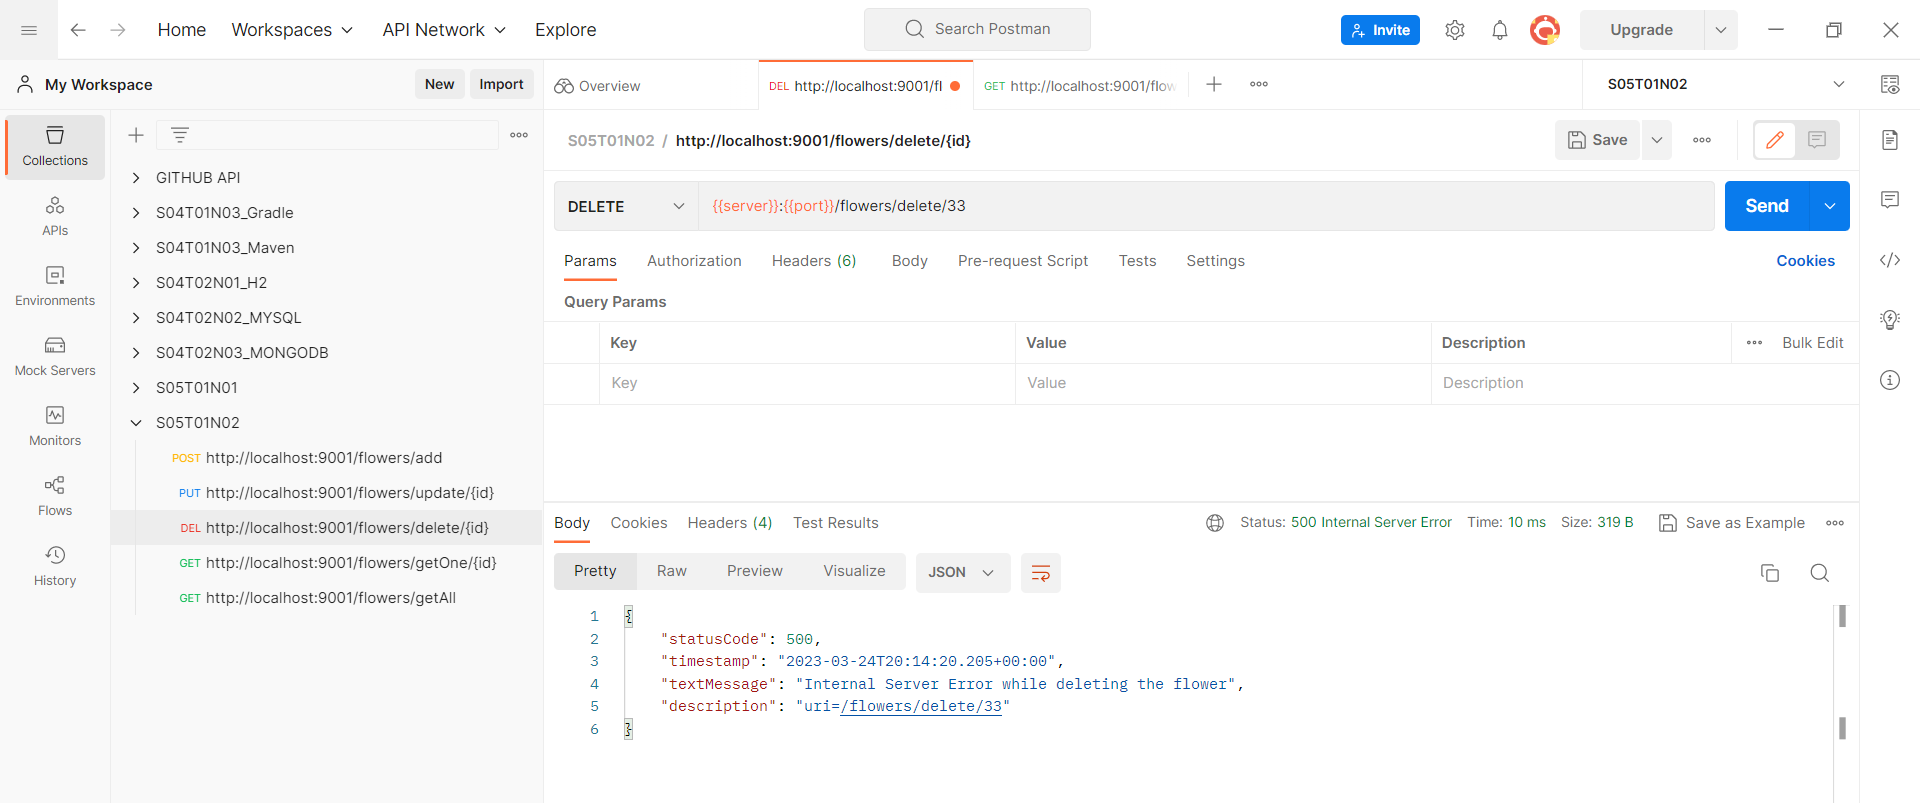
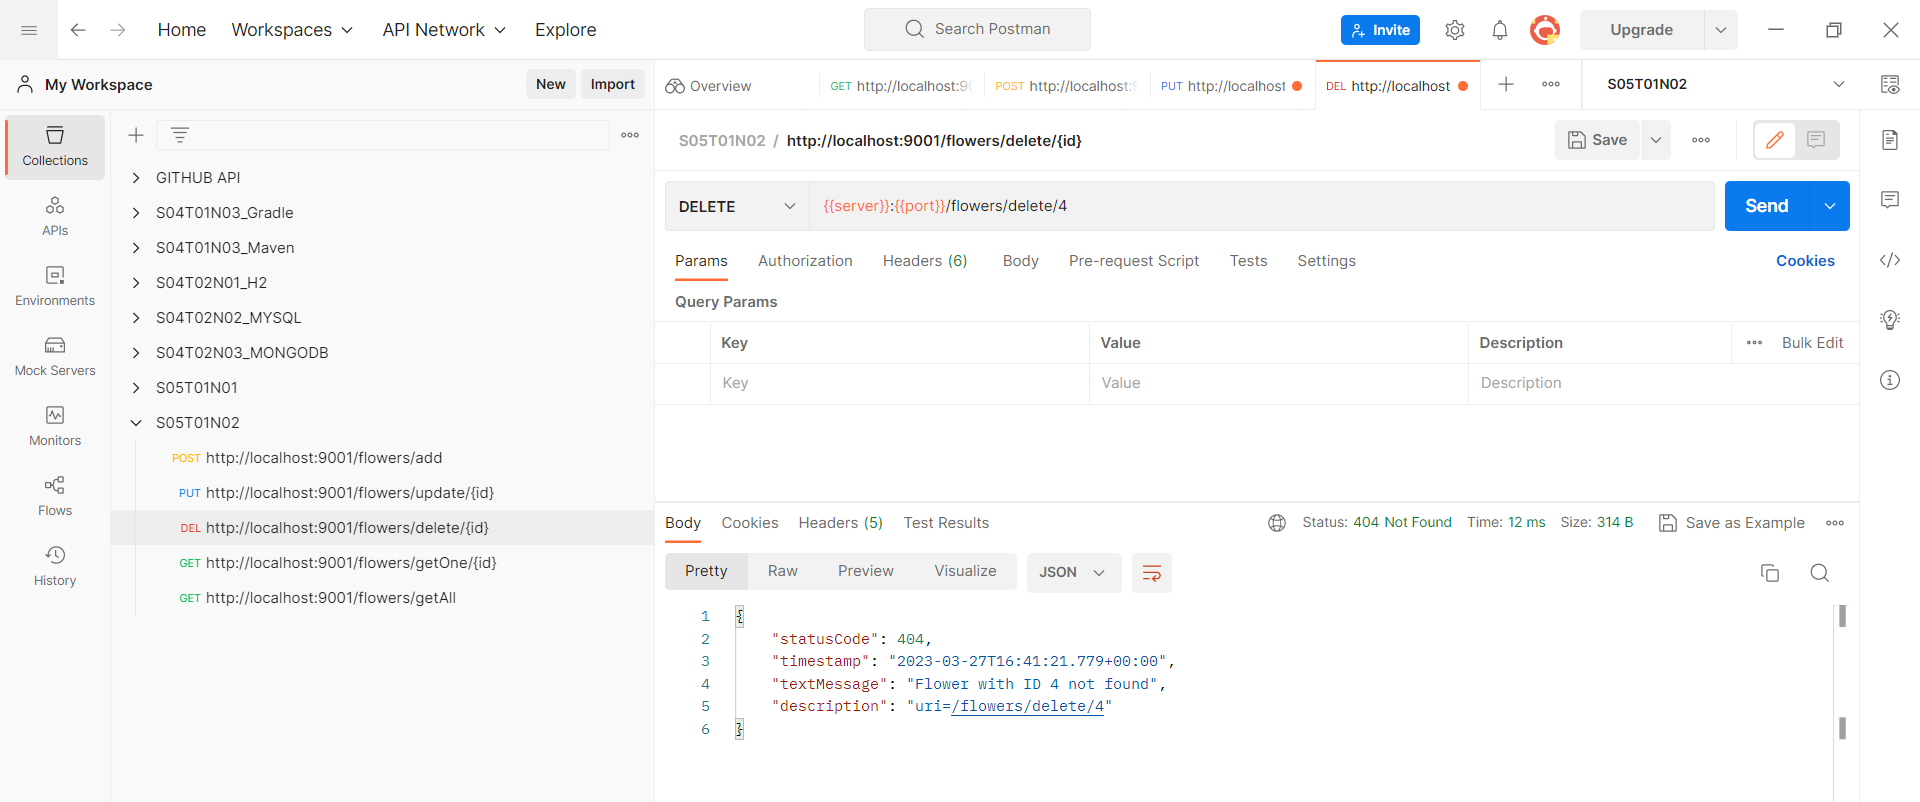
correccio excepcions capturades

diff --git a/S05T01N02LizMontse/src/main/java/cat/itacademy/barcelonactiva/liz/montse/s05/t01/n02/controllers/FlowerController.java b/S05T01N02LizMontse/src/main/java/cat/itacademy/barcelonactiva/liz/montse/s05/t01/n02/controllers/FlowerController.java
@@ -2,6 +2,7 @@ package cat.itacademy.barcelonactiva.liz.montse.s05.t01.n02.controllers;
 
 import cat.itacademy.barcelonactiva.liz.montse.s05.t01.n02.model.dto.FlowerDTO;
 import cat.itacademy.barcelonactiva.liz.montse.s05.t01.n02.model.dto.Message;
+import cat.itacademy.barcelonactiva.liz.montse.s05.t01.n02.model.exception.FlowerNotFoundException;
 import cat.itacademy.barcelonactiva.liz.montse.s05.t01.n02.model.service.IFlowerService;
 import io.swagger.v3.oas.annotations.Operation;
 import io.swagger.v3.oas.annotations.Parameter;
@@ -46,7 +47,7 @@ public class FlowerController {
     @Operation(summary = "Create a new flower", description = "Adds a new flower into the database")
     @ApiResponses(value = {
             @ApiResponse(responseCode = "201", description = "Flower created correctly", content = {@Content(mediaType = "application/json",
-                    schema = @Schema(implementation = FlowerDTO.class))}),
+                    schema = @Schema(implementation = Message.class))}),
             @ApiResponse(responseCode = "406", description = "Flower values not valid", content = {@Content(mediaType = "application/json",
                     schema = @Schema(implementation = Message.class))}),
             @ApiResponse(responseCode = "500", description = "Internal Server Error while creating the flower", content = {@Content(mediaType = "application/json",
@@ -66,7 +67,7 @@ public class FlowerController {
     @Operation(summary = "Update a flower", description = "Updates an existing flower in the database")
     @ApiResponses(value = {
             @ApiResponse(responseCode = "200", description = "Flower updated correctly", content = {@Content(mediaType = "application/json",
-                    schema = @Schema(implementation = FlowerDTO.class))}),
+                    schema = @Schema(implementation = Message.class))}),
             @ApiResponse(responseCode = "404", description = "Flower not found by id", content = {@Content(mediaType = "application/json",
                     schema = @Schema(implementation = Message.class))}),
             @ApiResponse(responseCode = "406", description = "Flower updated values not valid", content = {@Content(mediaType = "application/json",
@@ -79,6 +80,8 @@ public class FlowerController {
         try {
             flowerService.editFlower(id, flowerDTO);
             return new ResponseEntity<>(new Message(HttpStatus.OK.value(), new Date(),"Flower updated correctly", request.getDescription(false)), HttpStatus.OK);
+        } catch (FlowerNotFoundException e) {
+            throw e;
         } catch (Exception e) {
             throw new Exception("Internal Server Error while updating the flower", e.getCause());
         }
@@ -98,6 +101,8 @@ public class FlowerController {
         try {
             flowerService.removeFlower(id);
             return new ResponseEntity<>(new Message(HttpStatus.OK.value(), new Date(), "Flower removed successfully", request.getDescription(false)), HttpStatus.OK);
+        } catch (FlowerNotFoundException e) {
+            throw e;
         } catch (Exception e) {
             throw new Exception("Internal Server Error while deleting the flower", e.getCause());
         }
@@ -117,6 +122,8 @@ public class FlowerController {
     public ResponseEntity<FlowerDTO> getOneFlower(@Parameter(description = "The id of the flower to retrieve") @PathVariable int id) throws Exception {
         try {
             return new ResponseEntity<>(flowerService.getFlowerById(id), HttpStatus.OK);
+        } catch (FlowerNotFoundException e) {
+            throw e;
         } catch (Exception e) {
             throw new Exception("Internal Server Error while retrieving the flower", e.getCause());
         }
@@ -134,8 +141,11 @@ public class FlowerController {
                     schema = @Schema(implementation = Message.class))})})
 
     public ResponseEntity<List<FlowerDTO>> getAllFlowers() throws Exception {
+
         try {
             return new ResponseEntity<>(flowerService.getListFlowers(), HttpStatus.OK);
+        } catch (FlowerNotFoundException e) {
+            throw e;
         } catch (Exception e) {
             throw new Exception("Internal Server Error while retrieving the flowers from the database", e.getCause());
         }

diff --git a/S05T01N02LizMontse/src/main/java/cat/itacademy/barcelonactiva/liz/montse/s05/t01/n02/model/service/FlowerServiceImpl.java b/S05T01N02LizMontse/src/main/java/cat/itacademy/barcelonactiva/liz/montse/s05/t01/n02/model/service/FlowerServiceImpl.java
@@ -40,11 +40,11 @@ public class FlowerServiceImpl implements IFlowerService {
 
     @Override
     public List<FlowerDTO> getListFlowers() {
-        List<Flower> flowersFromDB = flowerRepository.findAll();
-        if (flowersFromDB.isEmpty()) {
+
+        if (flowerRepository.findAll().isEmpty()) {
             throw new FlowerNotFoundException("There are no flowers introduced in the database");
         } else {
-            return flowersFromDB.stream().map(this::convertToDTO).collect(Collectors.toList());
+            return flowerRepository.findAll().stream().map(this::convertToDTO).collect(Collectors.toList());
         }
     }
 
